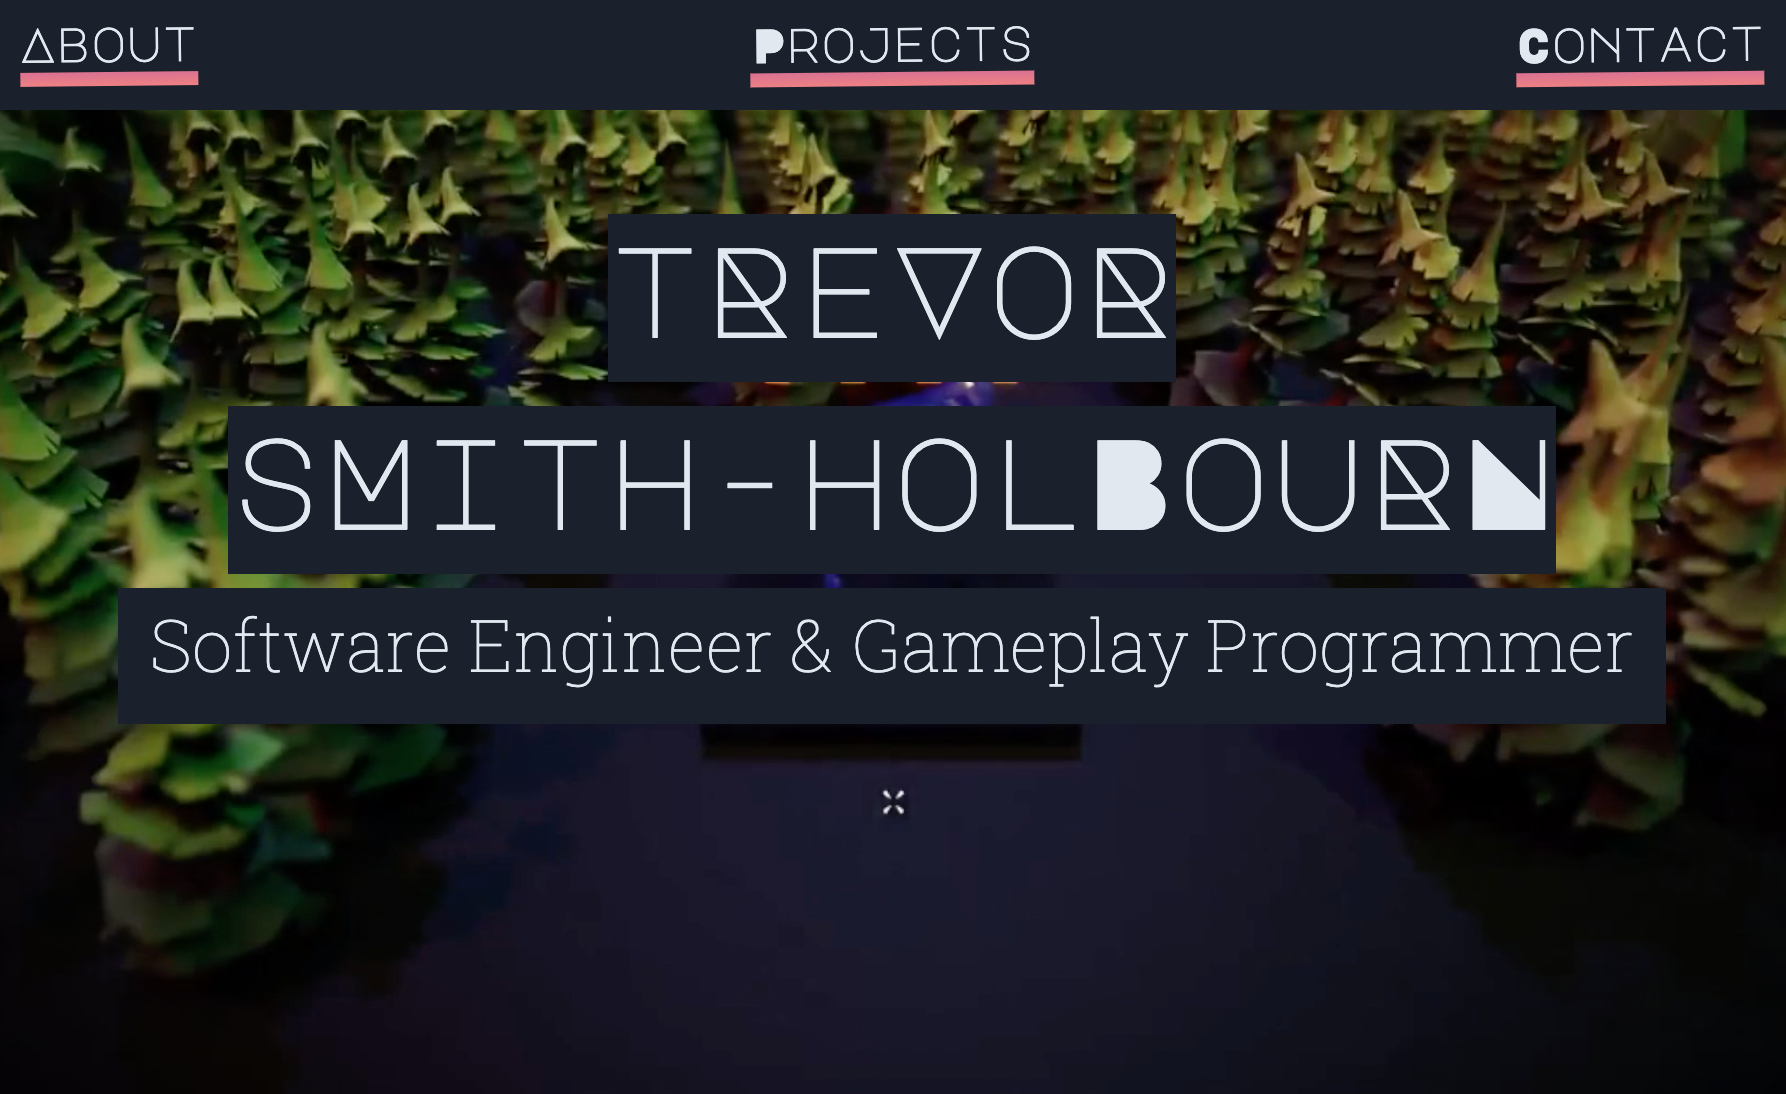
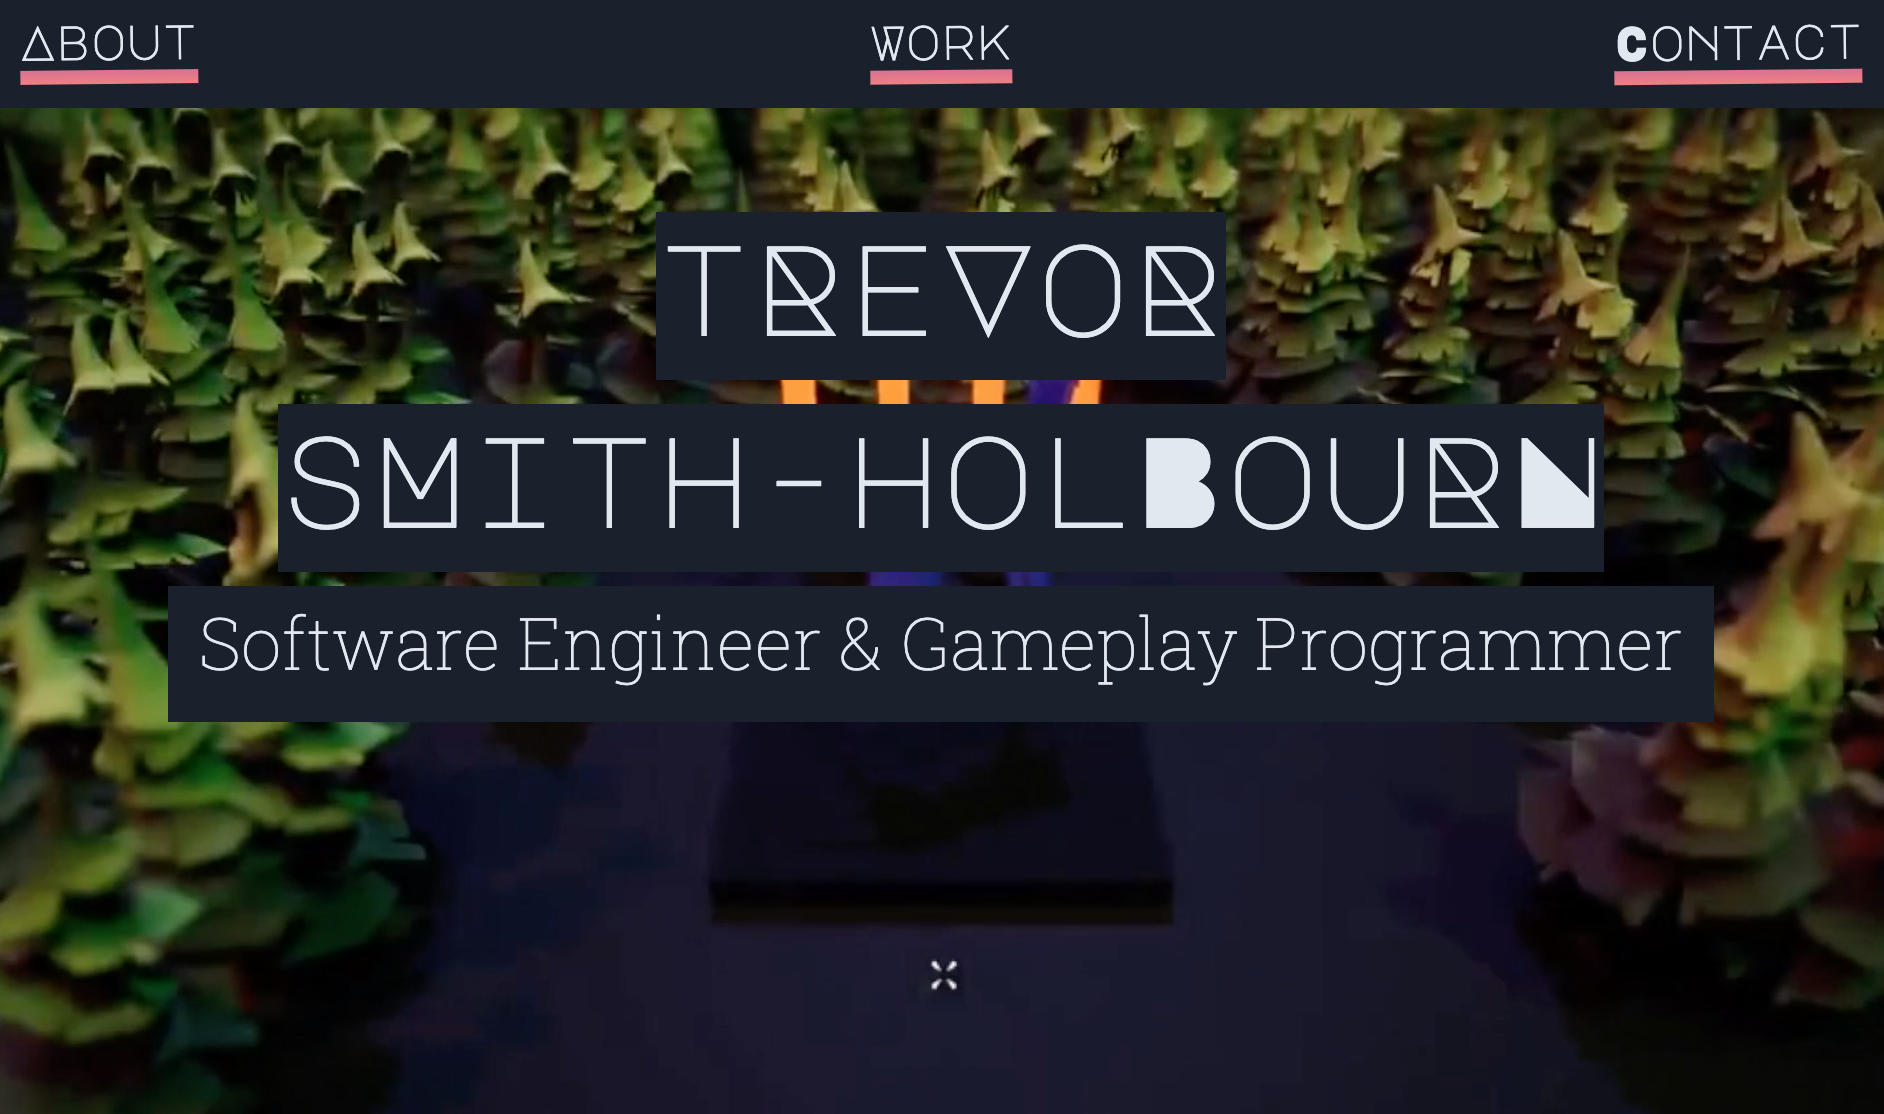
further tweaks to seo meta data

diff --git a/src/components/seo.js b/src/components/seo.js
@@ -10,7 +10,7 @@ import PropTypes from "prop-types"
 import Helmet from "react-helmet"
 import { useStaticQuery, graphql } from "gatsby"
 
-function SEO({ description, lang, meta, title, image })
+function SEO({ lang, meta })
 {
   const { site } = useStaticQuery(
     graphql`
@@ -30,22 +30,19 @@ function SEO({ description, lang, meta, title, image })
     `
   )
 
-  const metaDescription = description || site.siteMetadata.description
-  const metaImage = image || `${site.siteMetadata.siteUrl}/${site.siteMetadata.image}`
-
-
+  const metaImage = `${site.siteMetadata.siteUrl}/${site.siteMetadata.image}`
 
   return (
     <Helmet
       htmlAttributes={{
         lang,
       }}
-      title={title}
-      titleTemplate={`%s | ${site.siteMetadata.title}`}
+      title={site.siteMetadata.title}
+      titleTemplate={site.siteMetadata.title}
       meta={[
         {
           name: `description`,
-          content: metaDescription,
+          content: site.siteMetadata.description,
         },
         {
           property: `og:title`,
@@ -53,7 +50,7 @@ function SEO({ description, lang, meta, title, image })
         },
         {
           property: `og:description`,
-          content: metaDescription,
+          content: site.siteMetadata.description,
         },
         {
           property: `og:type`,
@@ -73,7 +70,7 @@ function SEO({ description, lang, meta, title, image })
         },
         {
           name: `twitter:description`,
-          content: metaDescription,
+          content: site.siteMetadata.description,
         },
         {
           name: `image`,
@@ -91,18 +88,11 @@ function SEO({ description, lang, meta, title, image })
 SEO.defaultProps = {
   lang: `en`,
   meta: [],
-  description: ``,
-  image: ``,
-  siteUrl: ``
 }
 
 SEO.propTypes = {
-  description: PropTypes.string,
   lang: PropTypes.string,
   meta: PropTypes.arrayOf(PropTypes.object),
-  title: PropTypes.string.isRequired,
-  image: PropTypes.string.isRequired,
-  siteUrl: PropTypes.string,
 }
 
 export default SEO

diff --git a/src/components/header.js b/src/components/header.js
@@ -1,9 +1,9 @@
 import { Link } from "gatsby"
 import { AnchorLink } from "gatsby-plugin-anchor-links"
 import React from "react"
-import Tilt from 'react-parallax-tilt'
-import { FontAwesomeIcon } from '@fortawesome/react-fontawesome'
-import { faVimeoSquare } from '@fortawesome/free-brands-svg-icons'
+// import Tilt from 'react-parallax-tilt'
+// import { FontAwesomeIcon } from '@fortawesome/react-fontawesome'
+// import { faVimeoSquare } from '@fortawesome/free-brands-svg-icons'
 import video from "../media/Webshort.mp4"
 
 const Header = () => (
@@ -12,11 +12,11 @@ const Header = () => (
       <video autoPlay muted loop playsInline className="demoReelVideo">
         <source src={video} type="video/mp4" />
       </video>
-      <Tilt className=" absolute right-0 top-0 md:bottom-0 md:top-auto">
+      {/* <Tilt className=" absolute right-0 top-0 md:bottom-0 md:top-auto">
         <a href="https://vimeo.com/369092145" className="link-pink">
           <span className="sr-only">Demo Reel</span>
           <FontAwesomeIcon className="text-4xl" icon={faVimeoSquare} /></a>
-      </Tilt>
+      </Tilt> */}
     </div>
     {/* <div className="videoContainer">
     </div> */}
@@ -38,7 +38,7 @@ const Header = () => (
         <span className="sm:text-2xl link-pink">About</span>
       </AnchorLink>
       <AnchorLink to="/#projects" title="Projects" className="sm:w-1/3 sm:text-center">
-        <span className="sm:text-2xl link-pink">Projects</span>
+        <span className="sm:text-2xl link-pink">Work</span>
       </AnchorLink>
       <AnchorLink to="/#contact" title="Contact" className="sm:w-1/3 sm:text-right">
         <span className="sm:text-2xl link-pink">Contact</span>

diff --git a/src/pages/index.js b/src/pages/index.js
@@ -7,7 +7,7 @@ import Projects from "../components/Projects"
 
 const IndexPage = () => (
   <Layout>
-    <SEO title="Home" />
+    <SEO />
     <div id="about" className="my-6 p-4 text-2xl text-justify">
       <span className="font-mono text-3xl bg-black">About Me</span>
       <p className="mt-4">
@@ -16,17 +16,13 @@ const IndexPage = () => (
 
     </div >
 
-
-
-
-
     <div id="projects" className="my-6 p-4 text-2xl">
-      <span className="font-mono text-3xl bg-black">My Projects</span>
+      <span className="font-mono text-3xl bg-black">Work</span>
       <Projects />
     </div>
 
     <div id="contact" className="my-6 p-4 text-2xl">
-      <span className="font-mono text-3xl bg-black">Contact Me!</span>
+      <span className="font-mono text-3xl bg-black">Contact</span>
       <Contact />
     </div>
   </Layout >

diff --git a/gatsby-config.js b/gatsby-config.js
@@ -1,6 +1,6 @@
 module.exports = {
   siteMetadata: {
-    title: `Trevor Smith-Holbourn Portfolio`,
+    title: `Portfolio | Trevor Smith-Holbourn`,
     description: `Software Engineer & Gameplay Programmer`,
     author: `Trevor Smith-Holbourn`,
     description: `See past work, download resume and get in touch with Trevor`,
